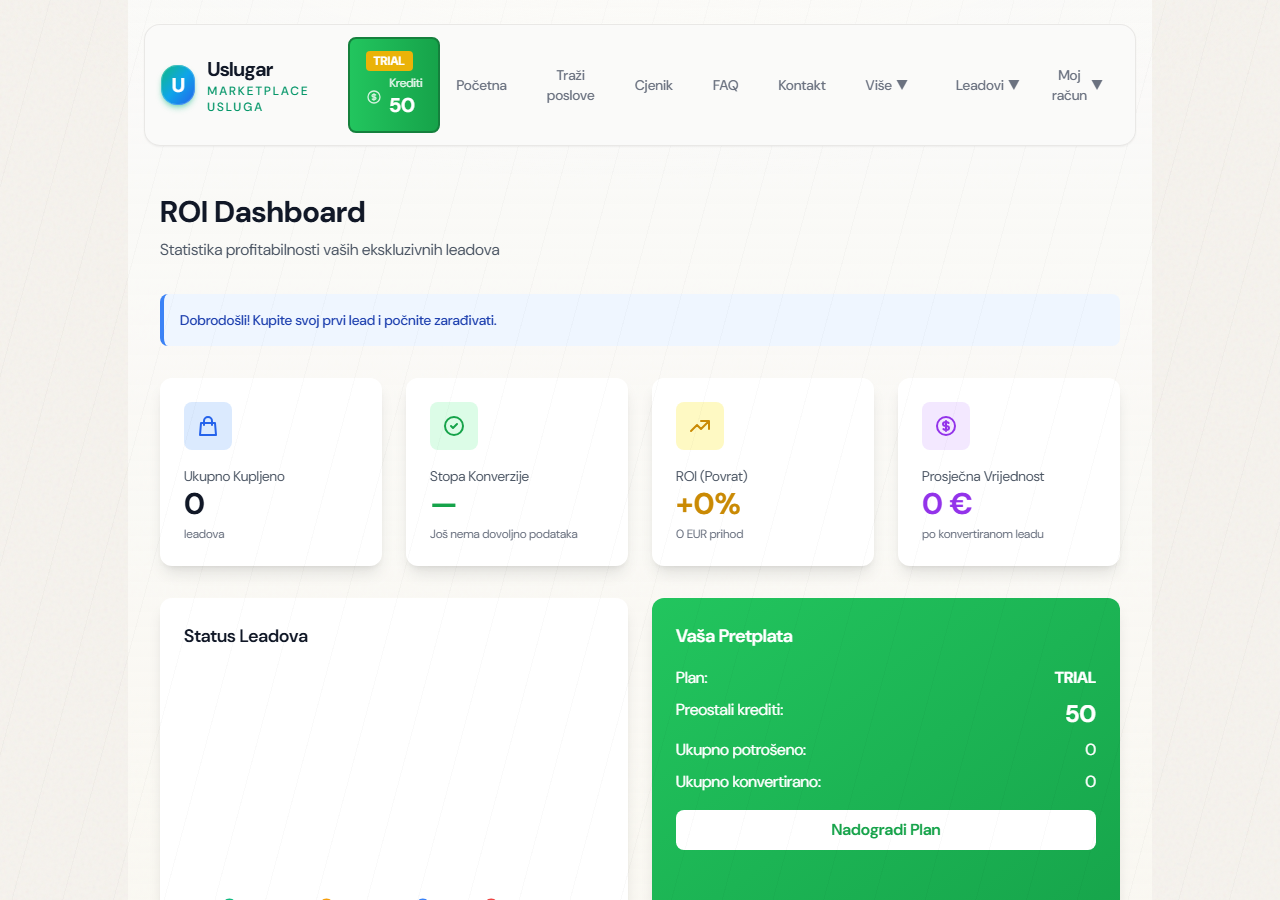
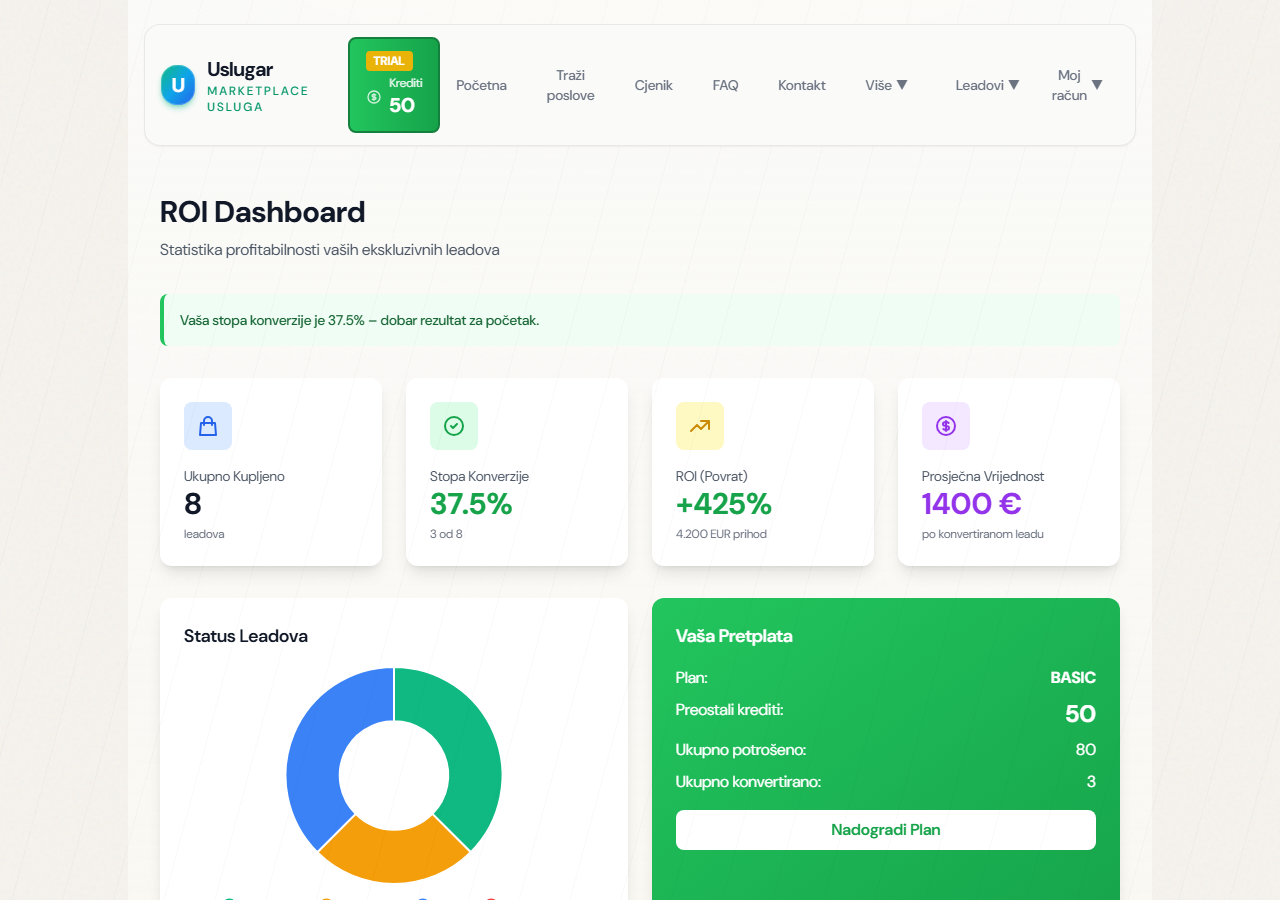
d

diff --git a/Uslugar/frontend/src/pages/ROIDashboard.jsx b/Uslugar/frontend/src/pages/ROIDashboard.jsx
@@ -35,6 +35,33 @@ ChartJS.register(
   Filler
 );
 
+/** Demo podaci za screenshot vodiča (?screenshotMode=docs) – konzistentne, realistične brojke */
+const DEMO_DASHBOARD = {
+  roi: {
+    totalLeadsPurchased: 8,
+    totalLeadsContacted: 5,
+    totalLeadsConverted: 3,
+    totalCreditsSpent: 80,
+    totalRevenue: 4200,
+    conversionRate: 37.5,
+    roi: 425,
+    avgLeadValue: 1400
+  },
+  subscription: {
+    plan: 'BASIC',
+    creditsBalance: 50,
+    lifetimeCreditsUsed: 80,
+    lifetimeLeadsConverted: 3
+  },
+  statusBreakdown: { CONVERTED: 3, CONTACTED: 2, ACTIVE: 3, REFUNDED: 0 },
+  recentLeads: [
+    { id: 'demo-1', status: 'CONVERTED', createdAt: new Date().toISOString(), job: { title: 'Renovacija kupaonice', category: { name: 'Građevinarstvo' }, budgetMax: 1500 } },
+    { id: 'demo-2', status: 'CONTACTED', createdAt: new Date().toISOString(), job: { title: 'Fasada i izolacija', category: { name: 'Fasade' }, budgetMax: 1800 } },
+    { id: 'demo-3', status: 'ACTIVE', createdAt: new Date().toISOString(), job: { title: 'Adaptacija potkrovlja', category: { name: 'Građevinarstvo' }, budgetMax: 1400 } }
+  ],
+  insights: [{ type: 'success', message: 'Vaša stopa konverzije je 37.5% – dobar rezultat za početak.' }]
+};
+
 export default function ROIDashboard() {
   const { isDarkMode } = useDarkMode();
   const [dashboard, setDashboard] = useState(null);
@@ -53,10 +80,23 @@ export default function ROIDashboard() {
   const loadDashboard = async () => {
     try {
       setLoading(true);
+      setError('');
       const response = await getROIDashboard();
-      setDashboard(response.data);
+      const data = response.data;
+      const isScreenshotDocs = typeof window !== 'undefined' && window.location.href.includes('screenshotMode=docs');
+      if (isScreenshotDocs && (!data.roi || data.roi.totalLeadsPurchased === 0)) {
+        setDashboard(DEMO_DASHBOARD);
+      } else {
+        setDashboard(data);
+      }
     } catch (err) {
-      setError(err.response?.data?.error || 'Greška pri učitavanju dashboard-a');
+      const isScreenshotDocs = typeof window !== 'undefined' && window.location.href.includes('screenshotMode=docs');
+      if (isScreenshotDocs) {
+        setDashboard(DEMO_DASHBOARD);
+        setError('');
+      } else {
+        setError(err.response?.data?.error || 'Greška pri učitavanju dashboard-a');
+      }
     } finally {
       setLoading(false);
     }
